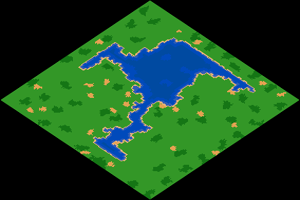
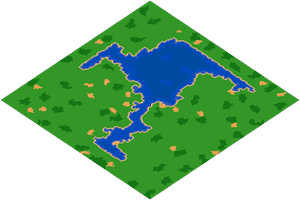
code readable, supports more formats, transparency added

diff --git a/minimap_generator.py b/minimap_generator.py
@@ -9,41 +9,49 @@ from mgz.summary import Summary
 from mgz.const import MAP_SIZES
 
 map_sizes = dict(zip(MAP_SIZES.values(),MAP_SIZES.keys()))
-mgx_file = glob.glob('*.mgx')[0]
 
-with open(f'{mgx_file}', 'rb') as data:
-    s = Summary(data)
-    mapa = s.get_map()
+recorded_games = []
+supported_extensions = ('.mgl', '.mgx', '.mgz', '.aoe2record')
 
-dic_colores = {'#339727': (51, 151, 39), '#305db6': (48, 93, 182), '#e8b478': (232, 180, 120), '#e4a252': (228, 162, 82), '#5492b0': (84, 146, 176), '#82884d': (130, 136, 77), '#157615': (21, 118, 21), '#004aa1': (0, 74, 161), '#004abb': (0, 74, 187), '#ffec49': (255, 236, 73), '#c8d8ff': (200, 216, 255), '#98c0f0': (152, 192, 240)}
-colores_hex = ['#82884d', '#157615', '#5492b0', '#305db6', '#004aa1', '#339727', '#e4a252', '#e8b478', '#98c0f0', '#ffec49', '#004abb', '#c8d8ff']
-farben = [(130, 136, 77), (21, 118, 21), (84, 146, 176), (48, 93, 182), (0, 74, 161), (51, 151, 39), (228, 162, 82), (232, 180, 120), (152, 192, 240), (255, 236, 73), (0, 74, 187), (200, 216, 255)]
+for recorded_game in range(len(supported_extensions)):
+    if glob.glob('*'+supported_extensions[recorded_game]):
+        recorded_games += glob.glob('*'+supported_extensions[recorded_game])
+
 forty_colors = ['#339727', '#305db6', '#e8b478', '#e4a252', '#5492b0', '#339727', '#e4a252', '#82884d', '#82884d', '#339727', '#157615', '#e4a252', '#339727', '#157615', '#e8b478', '#305db6', '#339727', '#157615', '#157615', '#157615', '#157615', '#157615', '#004aa1', '#004abb', '#e4a252', '#e4a252', '#ffec49', '#e4a252', '#305db6', '#82884d', '#82884d', '#82884d', '#c8d8ff', '#c8d8ff', '#c8d8ff', '#98c0f0', '#c8d8ff', '#98c0f0', '#c8d8ff', '#c8d8ff', '#e4a252']
+
 forty_rgb = []
-# ['339727', '305db6', 'e8b478', 'e4a252', '5492b0', '339727', 'e4a252', '82884d', '82884d', '339727', '157615', 'e4a252', '339727', '157615', 'e8b478', '305db6', '339727', '157615', '157615', '157615', '157615', '157615', '004aa1', '004abb', 'e4a252', 'e4a252', 'ffec49', 'e4a252', '305db6', '82884d', '82884d', '82884d', 'c8d8ff', 'c8d8ff', 'c8d8ff', '98c0f0', 'c8d8ff', '98c0f0', 'c8d8ff', 'c8d8ff', 'e4a252']
-
-def to_rgb(farbe):
-    return tuple(int(farbe[i:i+2], 16) for i in (0, 2, 4))
-
 for color in forty_colors:
     forty_rgb.append(color[1:])
 
-def write_minimap():
-    MAP_SIZE = map_sizes[mapa['size']]
-    TOTAL_TILES = MAP_SIZE ** 2
-    img = Image.new('RGB', (MAP_SIZE, MAP_SIZE))
+def to_rgb(farbe: str) -> tuple(['rrr','ggg','bbb']):
+    return tuple(int(farbe[i:i+2], 16) for i in (0, 2, 4))
+
+def write_minimap(input_file: str) -> 'output file: {input_file}.png':
+    with open(f'{input_file}', 'rb') as data:
+        mapa = Summary(data).get_map()
+        
+    map_size = map_sizes[mapa['size']]
+    TOTAL_TILES = map_size ** 2
+    
+    img = Image.new('RGBA', (map_size, map_size))
+    final_image = Image.new("RGBA", (300,200), (0,0,0,0))
+    
     x,y = (0,0)
     for i in range(TOTAL_TILES):
         x = mapa['tiles'][i]['x']
         y = mapa['tiles'][i]['y']
         terreno = mapa['tiles'][i]['terrain_id'] 
         img.putpixel((x,y), to_rgb((forty_colors[terreno])[1:]))
-    ANGLE = 45
-    img = img.rotate(ANGLE, expand=True)
-    img = img.resize((int(MAP_SIZE*1.5), MAP_SIZE))
-    output_file_name = f'{mgx_file[:-4]}.png'
-    img.save(output_file_name)
-    img.show()
+        
+    angle = 45
+    rotated = img.rotate(angle, resample=Image.BICUBIC, expand=True)
+    rotated = rotated.resize((int(map_size*1.5), map_size))
+    
+    final_image.paste(rotated, (0, 0), rotated)
+    output_file_name = f'{input_file[:-4]}.png'
+    final_image.save(output_file_name)
+    final_image.show()
 
-
-write_minimap()
+# Test
+for rec in recorded_games:
+    write_minimap(rec)
